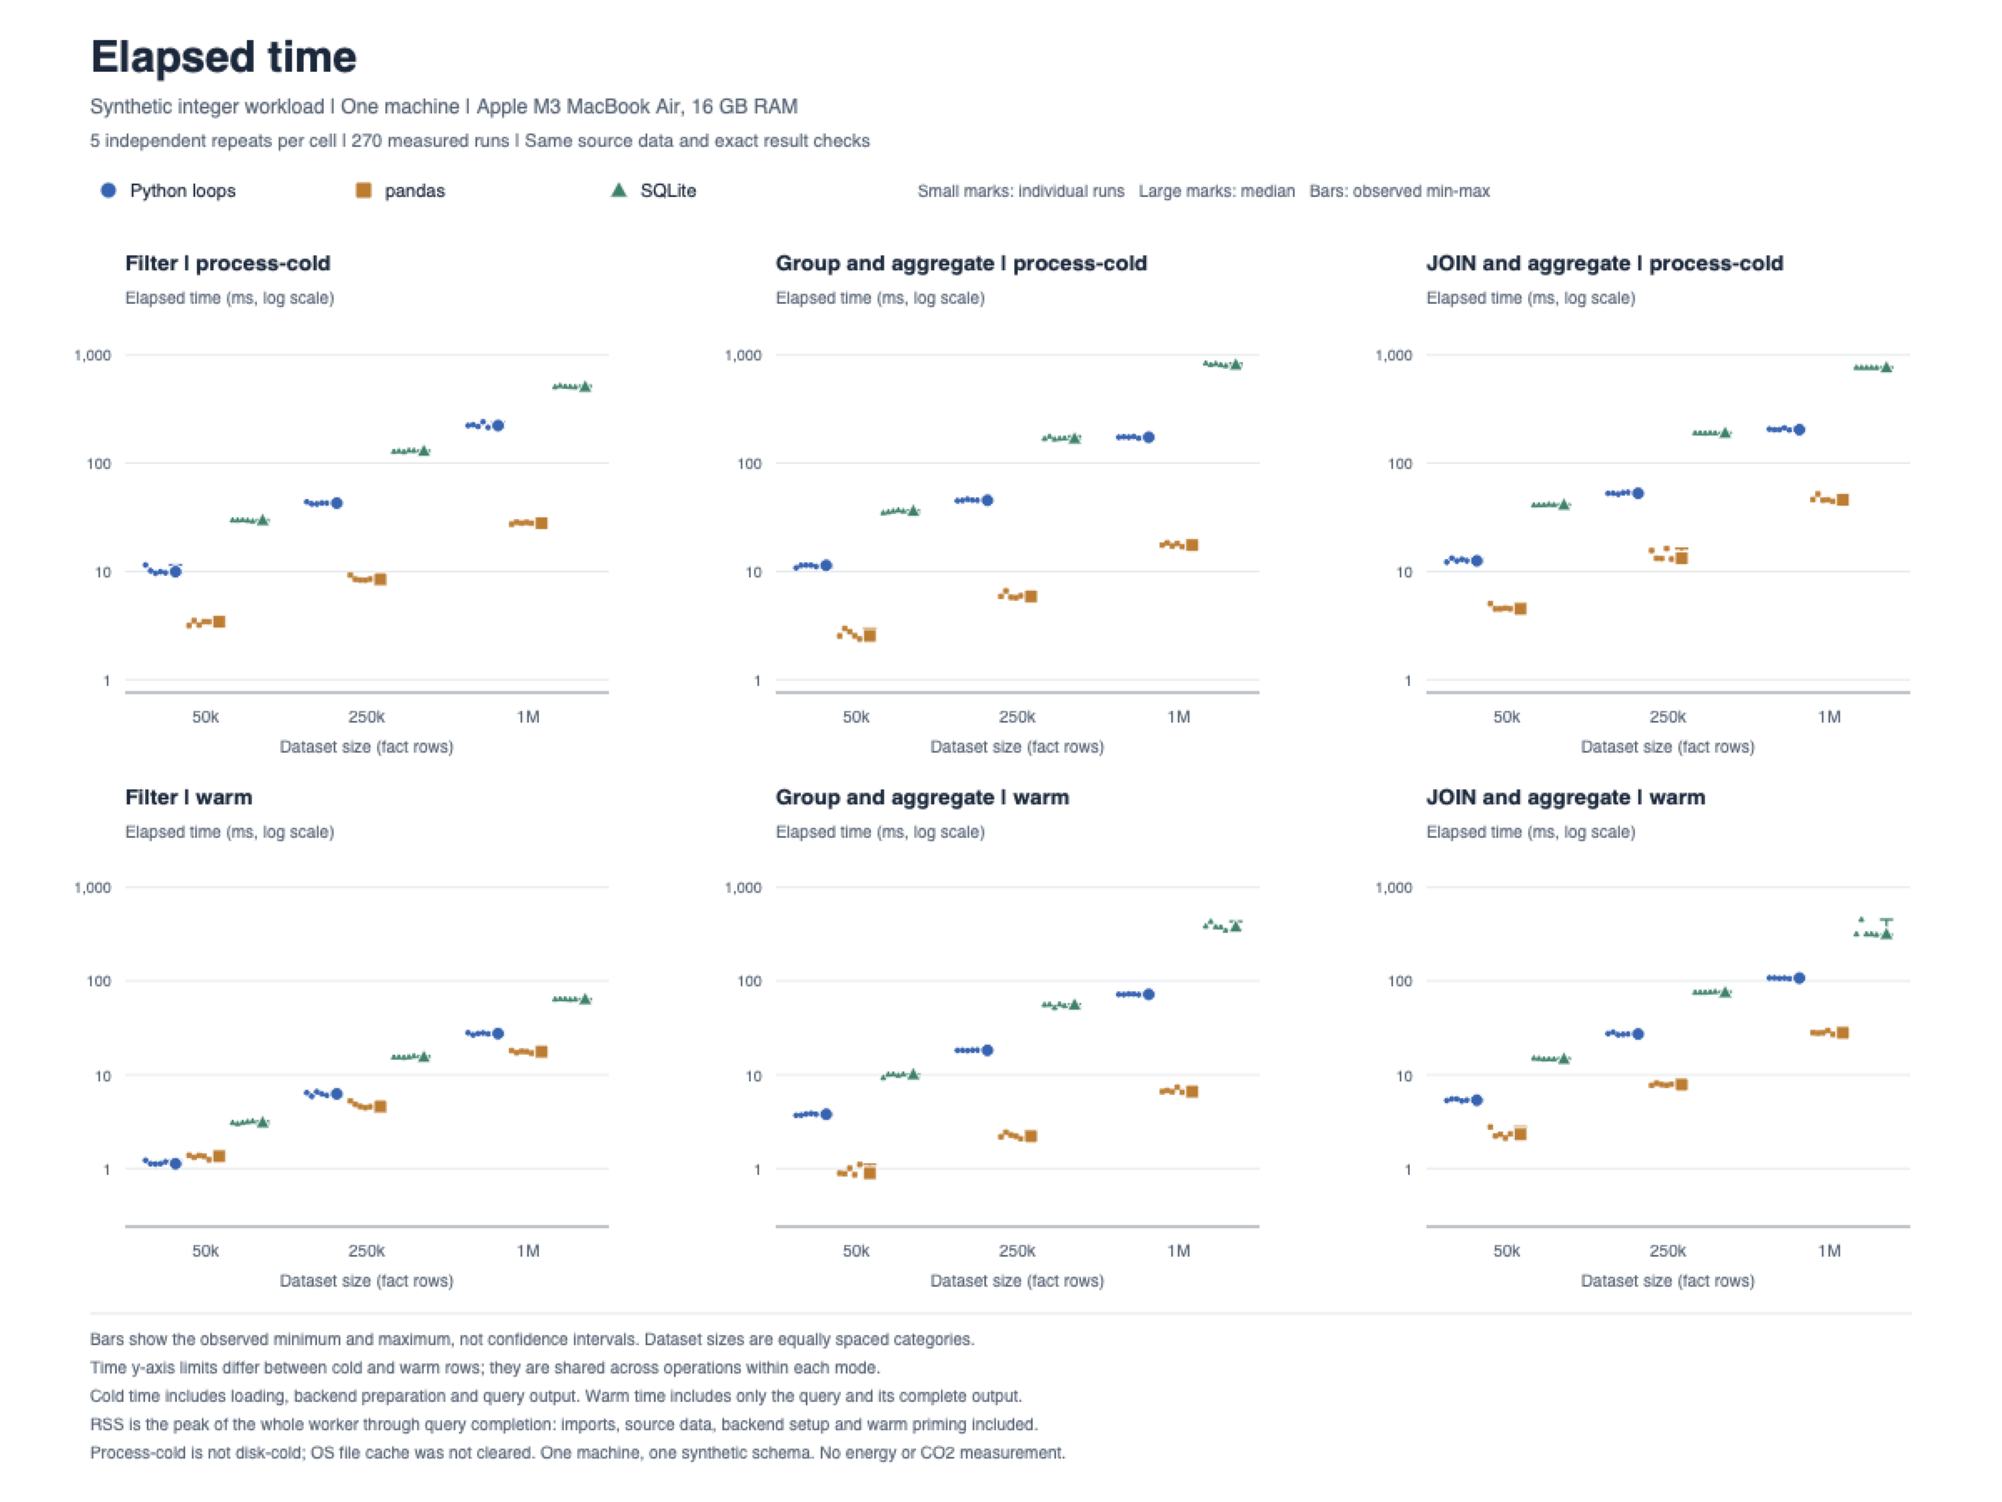
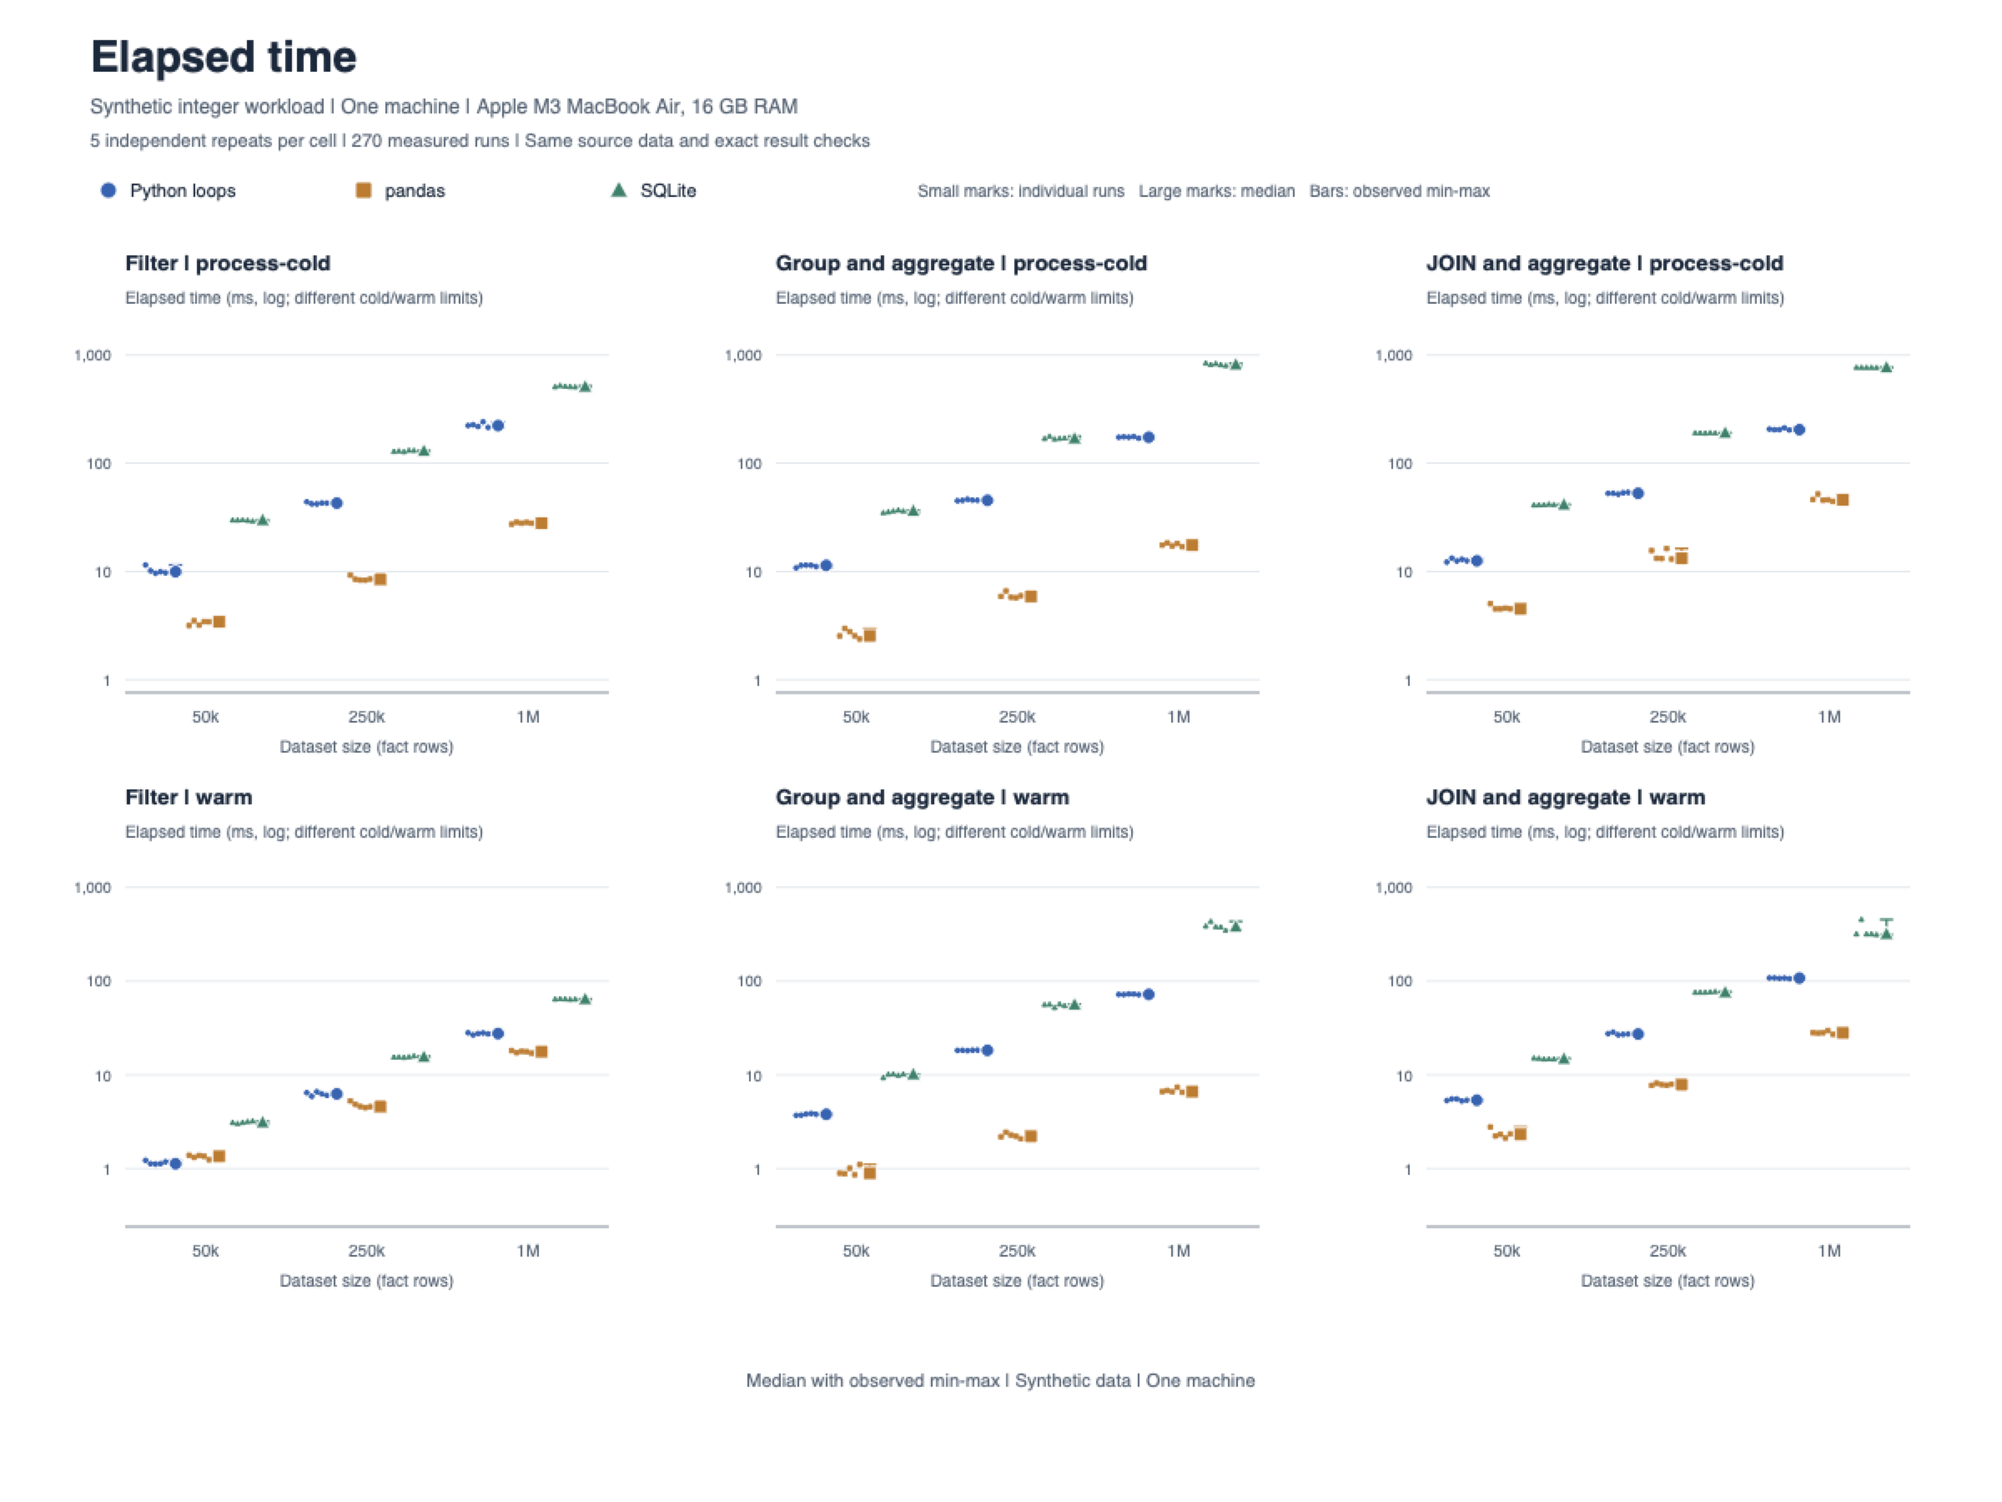
Simplify chart notes and refine project wording

diff --git a/src/analyze.py b/src/analyze.py
@@ -299,7 +299,8 @@ def draw_figure(path: Path, grouped: dict, metric: str, observation_count: int, 
             mode_label = "process-cold" if mode == "cold" else "warm"
             text(pdf, left, bottom + panel_height + 43, f"{OPERATION_LABELS[operation]} | {mode_label}", 13, bold=True)
             text(pdf, left, bottom + panel_height + 23,
-                 "Elapsed time (ms, log scale)" if is_time else "Peak RSS (MiB, zero baseline)", 10, MUTED)
+                 "Elapsed time (ms, log; different cold/warm limits)"
+                 if is_time else "Peak RSS (MiB, zero baseline)", 10, MUTED)
             for value in ticks:
                 ypos = bottom + position(value) * panel_height
                 pdf.setStrokeColor(GRID)
@@ -335,18 +336,9 @@ def draw_figure(path: Path, grouped: dict, metric: str, observation_count: int, 
                            backend, 4.0, color, median=True)
             text(pdf, left + panel_width / 2, bottom - 36, "Dataset size (fact rows)", 10, MUTED, align="center")
 
-    pdf.setStrokeColor(GRID)
-    pdf.line(54, 113, width - 54, 113)
-    footer = [
-        "Bars show the observed minimum and maximum, not confidence intervals. Dataset sizes are equally spaced categories.",
-        ("Time y-axis limits differ between cold and warm rows; they are shared across operations within each mode."
-         if is_time else "Memory uses the same zero-based y-axis across all six panels."),
-        "Cold time includes loading, backend preparation and query output. Warm time includes only the query and its complete output.",
-        "RSS is the peak of the whole worker through query completion: imports, source data, backend setup and warm priming included.",
-        "Process-cold is not disk-cold; OS file cache was not cleared. One machine, one synthetic schema. No energy or CO2 measurement.",
-    ]
-    for index, line in enumerate(footer):
-        text(pdf, 54, 94 - index * 17, line, 10, MUTED)
+    text(pdf, width / 2, 69,
+         "Median with observed min-max | Synthetic data | One machine",
+         11, MUTED, align="center")
     pdf.showPage()
     pdf.save()
 

diff --git a/README.it.md b/README.it.md
@@ -2,11 +2,11 @@
 
 [English](README.md) | **Italiano**
 
-Un confronto riproducibile tra cicli Python, pandas e SQLite sugli stessi dati sintetici. La domanda è pratica: come cambiano tempo e memoria quando lo stesso filtro, raggruppamento o JOIN viene implementato in modi diversi?
+Ho confrontato cicli Python, pandas e SQLite sugli stessi dati sintetici. Il mio obiettivo era capire come cambiano tempo e memoria quando lo stesso filtro, raggruppamento o JOIN viene implementato in modi diversi, con un esperimento riproducibile.
 
 Per analisti junior e sviluppatori, questo studio mostra come impostare un confronto verificabile, controllare risultati equivalenti e interpretare il rapporto tra tempo e memoria. Il repository contiene programma, input generati, misure reali e analisi. L'esperimento è stato eseguito su un MacBook Air Apple M3 con 16 GB di RAM il 1 ottobre 2026. I record contengono interi sintetici, non dati di clienti reali.
 
-## Cosa mostrano le misure
+## I miei risultati
 
 Con un milione di righe, pandas ha ottenuto il tempo mediano più basso per tutte e tre le operazioni, sia includendo la preparazione sia nell'esecuzione warm. In modalità warm è stato **1,56 volte più veloce di Python nel filtro, 10,89 volte nel raggruppamento e 3,84 volte nel JOIN con aggregazione**.
 
@@ -18,7 +18,7 @@ Nel JOIN warm su un milione di righe, SQLite ha registrato una mediana del picco
 
 ![Picco RSS dell'intero processo: singole osservazioni, mediane e intervalli osservati](charts/peak_memory.png)
 
-Ogni punto è una misura reale. Le barre mostrano minimo e massimo osservati su cinque ripetizioni, non intervalli di confidenza. I rapporti confrontano mediane in condizioni equivalenti e non dimostrano accelerazioni universali.
+I rapporti confrontano mediane in condizioni equivalenti e non dimostrano accelerazioni universali.
 
 Tempo mediano con 1.000.000 di righe nella tabella dei fatti, in millisecondi:
 
@@ -32,6 +32,14 @@ Tempo mediano con 1.000.000 di righe nella tabella dei fatti, in millisecondi:
 | JOIN e aggregazione | Warm | 107,68 | 28,05 | 317,70 |
 
 Consulta le [misure grezze](results/main/raw.csv), il [riepilogo completo](results/analysis/summary.csv) o il rapporto in russo in [PDF](reports/synthetic-processing-study-ru.pdf) e [DOCX modificabile](reports/synthetic-processing-study-ru.docx).
+
+## Come leggere i grafici
+
+I simboli piccoli mostrano le singole prove, quelli grandi le mediane; le barre indicano minimo e massimo osservati su cinque ripetizioni, non intervalli di confidenza. Le dimensioni dei dataset sono categorie equidistanti sull'asse x, non distanze numeriche proporzionali. Il tempo usa un asse y logaritmico comune alle operazioni della stessa modalità, con limiti diversi per cold e warm. Tra modalità, confrontare i valori degli assi, non l'altezza dei simboli. La memoria usa lo stesso asse y lineare con origine zero in tutti e sei i pannelli.
+
+**Process-cold** comprende caricamento del file NPZ condiviso, preparazione, esecuzione, ordinamento e materializzazione completa del risultato; import e avvio del processo sono esclusi. Le cache dei file del sistema operativo non sono state svuotate: non è una misura a disco freddo. **Warm** comprende solo esecuzione e risultato completo dopo una prova preliminare non cronometrata. Ogni ripetizione usa un processo nuovo.
+
+**Il picco RSS** è il massimo di memoria dell'intero processo fino al completamento della query, prima della verifica. Include import, array di input, preparazione e prova warm, non solo la memoria incrementale della query o la memoria fisica esclusiva. Le osservazioni riguardano una macchina e uno schema sintetico. L'energia non è stata misurata; non sono supportate conclusioni su energia o CO2. Vedere la [metodologia](docs/METHODOLOGY.md) e i [chiarimenti sulle misure](docs/IMPLEMENTATION_ADDENDUM.md).
 
 ## Avvio rapido: analizzare i dati raccolti
 
@@ -60,12 +68,6 @@ La matrice principale comprende 50.000, 250.000 e 1.000.000 di righe, tre implem
 
 Python usa liste di righe e un dizionario, pandas usa DataFrame interi e SQLite un database in memoria con chiave primaria sui clienti e nessun indice sulla tabella dei fatti. Il confronto riguarda queste implementazioni concrete e le loro diverse rappresentazioni.
 
-**Process-cold** comprende caricamento del file NPZ condiviso, preparazione, esecuzione, ordinamento e materializzazione completa del risultato. Import e avvio del processo sono esclusi. Le cache del sistema operativo non sono state svuotate: non è una misura a disco freddo.
-
-**Warm** comprende esecuzione e risultato completo dopo una prova preliminare non cronometrata. Ogni ripetizione usa comunque un processo nuovo; caricamento e preparazione sono esclusi dal tempo misurato.
-
-**Il picco RSS** è il massimo di memoria dell'intero processo fino al completamento della query, prima della verifica. Include import, array di input, strutture del metodo e prova warm. Non misura la sola memoria incrementale della query né la memoria fisica esclusiva.
-
 Seed dei dati: `20261001`. Seed dell'ordine principale: `73129`. Blocchi e ordine sono stati randomizzati, eseguendo un processo alla volta. Versioni registrate: Python 3.12.14, NumPy 2.3.5, pandas 2.2.3, SQLite 3.53.1 e macOS 26.7.1. I limiti dei thread delle librerie numeriche erano impostati a 1; `PRAGMA threads=1` di SQLite limita i thread ausiliari della query, non i thread totali del processo.
 
 ## Correttezza e limiti
@@ -93,7 +95,3 @@ Per adattare un'operazione, modificare le tre implementazioni in `src/backends.p
 - `charts/`: grafici di tempo e memoria in PNG e PDF.
 - `docs/`: metodologia, decisioni e documentazione.
 - `reports/`: rapporti in russo, incluso il documento esteso in PDF e DOCX.
-
-## Licenza
-
-Non è ancora stata scelta una licenza. La decisione spetta al proprietario del repository.

diff --git a/README.md b/README.md
@@ -2,11 +2,11 @@
 
 **English** | [Italiano](README.it.md)
 
-A reproducible comparison of Python loops, pandas and SQLite on identical synthetic data. It answers a practical question: how do processing time and memory change when the same filter, grouping or JOIN is implemented in different ways?
+I compared Python loops, pandas and SQLite on identical synthetic data. My goal was to understand how processing time and memory change when the same filter, grouping or JOIN is implemented in different ways, using a reproducible experiment.
 
 For junior data analysts and developers, this is a worked example of designing a fair comparison, checking equivalent outputs and explaining time/memory tradeoffs. The repository contains the program, generated inputs, real measurements and analysis. The experiment ran on one Apple M3 MacBook Air with 16 GB RAM on 1 October 2026. These are synthetic integer records, not customer data.
 
-## What the measurements show
+## My findings
 
 At one million rows, pandas had the lowest median time for all three operations, both with preparation included and in warm execution. Its warm execution was **1.56 times as fast as Python for filtering, 10.89 times for grouping and 3.84 times for JOIN and aggregation**.
 
@@ -18,7 +18,7 @@ For the million-row warm JOIN, SQLite had a lower median peak worker RSS than pa
 
 ![Measured peak whole-worker RSS: individual observations, medians and observed ranges](charts/peak_memory.png)
 
-Each point is a real observation. Bars show the observed minimum and maximum of five repeats, not confidence intervals. Ratios compare matching medians and do not establish universal speedups.
+Ratios compare matching medians and do not establish universal speedups.
 
 Median elapsed time at 1,000,000 fact rows, in milliseconds:
 
@@ -32,6 +32,14 @@ Median elapsed time at 1,000,000 fact rows, in milliseconds:
 | JOIN and aggregate | Warm | 107.68 | 28.05 | 317.70 |
 
 Explore the [raw measurements](results/main/raw.csv), [complete summary](results/analysis/summary.csv) or Russian report in [PDF](reports/synthetic-processing-study-ru.pdf) and [editable DOCX](reports/synthetic-processing-study-ru.docx).
+
+## How to read the charts
+
+Small marks show individual runs, large marks show medians, and bars show the observed min-max of five repeats, not confidence intervals. Dataset sizes are equally spaced categories on the x-axis, not proportional numeric distances. Time uses a logarithmic y-axis shared across operations within each mode, with different limits for cold and warm. Compare axis values across modes, not marker heights. Memory uses the same zero-based linear y-axis in all six panels.
+
+**Process-cold** includes loading the shared NPZ, backend preparation, execution, ordering and complete output materialization; imports and process launch are excluded. OS file caches were not cleared, so this is not disk-cold performance. **Warm** includes only execution and complete output after one untimed prime. Each repeat uses a fresh worker.
+
+**Peak RSS** is the whole worker's memory high-water mark through query completion, before validation. It includes imports, input arrays, backend preparation and warm priming, not just incremental query memory or exclusively owned physical memory. These observations cover one machine and one synthetic schema. Energy was not measured; no energy or CO2 conclusions are supported. See the [methodology](docs/METHODOLOGY.md) and [measurement clarifications](docs/IMPLEMENTATION_ADDENDUM.md).
 
 ## Quick start: analyze the collected data
 
@@ -60,12 +68,6 @@ The main matrix contains 50,000, 250,000 and 1,000,000 fact rows, three implemen
 
 Python uses row lists and a dictionary, pandas uses integer DataFrames, and SQLite uses an in-memory database with a customer primary key and no fact-table indexes. This compares these concrete implementations, including their different representations.
 
-**Process-cold** times loading the shared NPZ, backend preparation, execution, ordering and complete output materialization. Imports and process launch are excluded. OS caches were not cleared, so this is not disk-cold performance.
-
-**Warm** times execution and complete output after one untimed prime. Each repeat still uses a fresh worker, and loading and preparation are excluded from its timer.
-
-**Peak RSS** is the whole worker's memory high-water mark through query completion, before validation. It includes imports, input arrays, backend structures and warm priming. It is not incremental query memory or exclusively owned physical memory.
-
 Data seed: `20261001`. Main schedule seed: `73129`. Blocks and execution order were randomized, with workers running sequentially. Recorded versions: Python 3.12.14, NumPy 2.3.5, pandas 2.2.3, SQLite 3.53.1 and macOS 26.7.1. Numerical-library thread limits were set to 1; SQLite `PRAGMA threads=1` limits auxiliary query threads, not the process's total threads.
 
 ## Correctness and limits
@@ -93,7 +95,3 @@ To adapt an operation, change its three implementations in `src/backends.py`, th
 - `charts/`: time and memory figures in PNG and PDF.
 - `docs/`: methodology, decisions and narrative material.
 - `reports/`: Russian reports, including the expanded PDF and DOCX.
-
-## License
-
-A license has not yet been selected. Licensing is pending the repository owner's decision.

diff --git a/docs/linkedin_draft_en.md b/docs/linkedin_draft_en.md
@@ -2,13 +2,13 @@
 
 Where should the timer start when comparing data-processing tools?
 
-This portfolio study compares Python loops, pandas and SQLite using identical deterministic synthetic data. It covers filtering, grouped aggregation and JOIN followed by aggregation, with 270 main trials after a small pilot.
+I compared Python loops, pandas and SQLite using identical deterministic synthetic data. My study covers filtering, grouped aggregation and JOIN followed by aggregation, with 270 main trials after a small pilot.
 
 One result makes the timing boundary concrete. For a 50,000-row filter, the warm median was 1.13 ms for Python and 1.35 ms for pandas. Include source loading and backend preparation, and the order changes: pandas took 3.42 ms while Python took 9.94 ms.
 
 At one million rows, pandas had the lowest median elapsed time across the tested operations and modes. Memory told another story: the warm JOIN used a median 128.91 MiB of peak worker RSS in SQLite versus 229.83 MiB in pandas, while taking 317.70 ms versus 28.05 ms.
 
-The practical lesson: define the work being timed before choosing a tool. Setup costs, repeated execution and memory limits can lead to different decisions.
+My main takeaway: define the work being timed before choosing a tool. Setup costs, repeated execution and memory limits can lead to different decisions.
 
 These results describe one Apple M3 MacBook Air, one integer schema and five repeats per condition. They are not a universal ranking. Energy was not measured. The repository includes raw observations, exact-result checks, code and charts showing every repeat and observed range.
 

diff --git a/docs/PUBLIC_DATA.md b/docs/PUBLIC_DATA.md
@@ -24,5 +24,3 @@ The public audit verifies a complete schedule and unique trial order. It does no
 The original Russian PDF and editable DOCX reports are retained as separate documents. Their measured results remain valid. The historical report links to an earlier local ZIP; use GitHub Code > Download ZIP for this public version instead. Any process-ID statement in them describes verification of the original private logs before metadata removal.
 
 The private original protocol remains preserved locally. The public audit verifies the published protocol against `public_methodology_sha256`; it does not claim that the shortened Markdown has the original collection-time hash.
-
-No license has been selected. A license decision remains with the repository owner; public visibility alone is not a broad permission to reuse the work.
